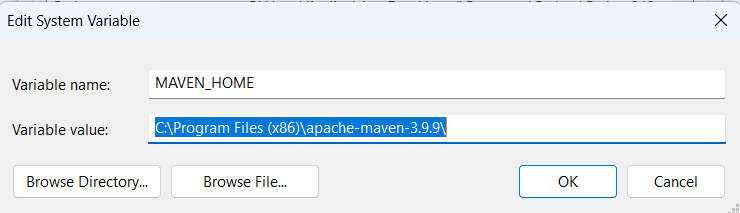
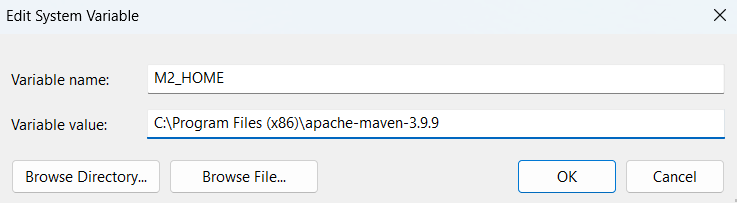
The basics of Nexus and how it works with Maven.

diff --git a/doc/01 - maven.md b/doc/01 - maven.md
@@ -46,28 +46,200 @@ Key elements in a POM:
 
 - `<build>`: build-related configuration, including plugins
 
-# Installing Maven to Windows
+## Installing Maven to Windows
 
 ### 1. Download Maven 
 
 Visit the official download page: https://maven.apache.org/download.cgi
 
-<img src="img/1-1.png" alt="download" width="700">
+<img src="img/1-1.png" alt="download" width="800">
 
-### 2. Configure environemnt variable
+### 2. Configure environment variable
 
 Extract the archive to a preferred location.
-Then set the `MAVEN_HOME` and update the `Path` system variable to include `%MAVEN_HOME%\bin`.
+Then set the `M2_HOME` and update the `Path` system variable to include `%M2_HOME%\bin`.
 
 <img src="img/1-2.png" alt="conf_env_val" width="500">
 
-<img src="img/1-3.png" alt="conf_env_val_2" width="400">
 
 ### 3. Verify
 
 Open a terminal and run:
 
 ```bash
-mvn -v
+> mvn -v
+Apache Maven 3.9.9 (8e8579a9e76f7d015ee5ec7bfcdc97d260186937)
+Maven home: C:\Program Files (x86)\apache-maven-3.9.9
+Java version: 21.0.6, vendor: Azul Systems, Inc., runtime: C:\Program Files\Zulu\zulu-21
+Default locale: en_US, platform encoding: UTF-8
+OS name: "windows 11", version: "10.0", arch: "amd64", family: "windows"
 ```
-<img src="img/1-4.png" alt="mvn_verify" width="600">
+
+# Nexus
+
+In modern development workflows, projects often rely on dozens or even hundreds of external libraries. Downloading dependencies directly from public repositories like Maven Central can be slow, insecure, or unreliable. Nexus addresses these issues by functioning as:
+
+- A proxy for remote repositories (e.g., Maven Central, npm, PyPI)
+
+- A hosted private repository for internal artifacts
+
+- A deployment target for build tools like Maven, Gradle, or Docker
+
+
+## Deploy Nexus on CentOS 8
+
+```bash
+## Download Nexus from the official site (https://help.sonatype.com/en/download.html)
+wget --no-check-certificate -P /opt https://download.sonatype.com/nexus/3/nexus-3.79.1-04-linux-x86_64.tar.gz
+tar zxvf /opt/nexus-3.79.1-04-linux-x86_64.tar.gz
+
+## Deploy Nexus as a systemd service (https://help.sonatype.com/en/run-as-a-service.html)
+ln -s /opt/nexus-3.79.1-04/bin/nexus /etc/init.d/nexus
+vim /etc/systemd/system/nexus.service
+
+  [Unit]
+  Description=nexus service
+  After=network.target
+    
+  [Service]
+  Type=forking
+  LimitNOFILE=65536
+  ExecStart=/etc/init.d/nexus start
+  ExecStop=/etc/init.d/nexus stop 
+  User=nexus
+  Restart=on-abort
+  TimeoutSec=600
+    
+  [Install]
+  WantedBy=multi-user.target
+
+useradd nexus
+chown -R nexus:nexus /opt/nexus-3.79.1-04
+chown -R nexus:nexus /opt/sonatype-work
+
+systemctl daemon-reload
+systemctl enable nexus --now
+
+## Open default port 8081
+firewall-cmd --permanent --add-port=8081/tcp
+firewall-cmd --reload
+```
+Once complete, you should be able to access Nexus via your web browser.
+
+<img src="img/1-5.png" alt="nexus_gui" width="700">
+
+
+## Integrating Nexus with Maven
+
+### 1. Configure Maven to Use Nexus
+
+```bash
+## %M2_HOME%\conf\settings.xml
+<mirrors>
+  <mirror>
+    <id>nexus</id>
+    <mirrorOf>*</mirrorOf>
+    <name>Nexus Public Repository</name>
+    <url>http://192.168.70.50:8081/repository/maven-public/</url>
+  </mirror>
+</mirrors>
+```
+
+### 2. Create a Sample Project with Maven
+
+```bash
+
+## Create the simplest of Maven projects, details in https://maven.apache.org/guides/getting-started/
+> mvn archetype:generate -DgroupId=com.avaya.gss -DartifactId=jvm -DarchetypeArtifactId=maven-archetype-quickstart -DarchetypeVersion=1.5 -DinteractiveMode=false
+
+## Generated project structure
+> tree /f
+
+Folder PATH listing for volume Avaya eSOE
+Volume serial number is E206-78D2
+C:.
+│   pom.xml
+│
+├───.mvn
+│       jvm.config
+│       maven.config
+│
+└───src
+    ├───main
+    │   └───java
+    │       └───com
+    │           └───avaya
+    │               └───gss
+    │                       App.java
+    │
+    └───test
+        └───java
+            └───com
+                └───avaya
+                    └───gss
+                            AppTest.java
+```
+
+### 3. Build the project
+
+```bash
+> mvn package
+```
+
+Maven will fetch dependencies from Nexus and store them in the local repository (`%USERPROFILE%\.m2\repository`). If Nexus doesn't already have them, it will download them from Maven Central.
+
+Once the download is complete, the libraries will appear both in the local repository and in Nexus.
+
+<img src="img/1-6.png" alt="local_repo" width="500">
+
+<img src="img/1-7.png" alt="remote_repo" width="700">
+
+### 4. Upload Artifacts to Nexus
+
+First, log in to the Nexus UI, navigate to `Security → Users`, and create a new local user account.
+
+<img src="img/1-4.png" alt="nexus_add_user" width="700">
+
+Next, add the user credentials to Maven’s `settings.xml`:
+
+```bash
+## %MAVEN_HOME%\conf\settings.xml
+<servers>
+  <server>
+    <id>nexus-releases</id>
+    <username>yijun</username>
+    <password>passwd</password>
+  </server>
+  <server>
+    <id>nexus-snapshots</id>
+    <username>yijun</username>
+    <password>passwd</password>
+  </server>
+</servers>
+```
+
+Then, configure the `distributionManagement` section in your project’s `pom.xml`:
+
+```bash
+## pom.xml
+<distributionManagement>
+  <repository>
+    <id>nexus-releases</id>
+    <url>http://192.168.70.50:8081/repository/maven-releases/</url>
+  </repository>
+  <snapshotRepository>
+    <id>nexus-snapshots</id>
+    <url>http://192.168.70.50:8081/repository/maven-snapshots/</url>
+  </snapshotRepository>
+</distributionManagement>
+```
+
+Finally, run the following command to deploy your artifact:
+
+```bash
+> mvn deploy
+```
+
+Once the deployment is complete, the artifact will be visible in the corresponding Nexus repository.
+
+<img src="img/1-8.png" alt="upload_to_remote" width="700">
